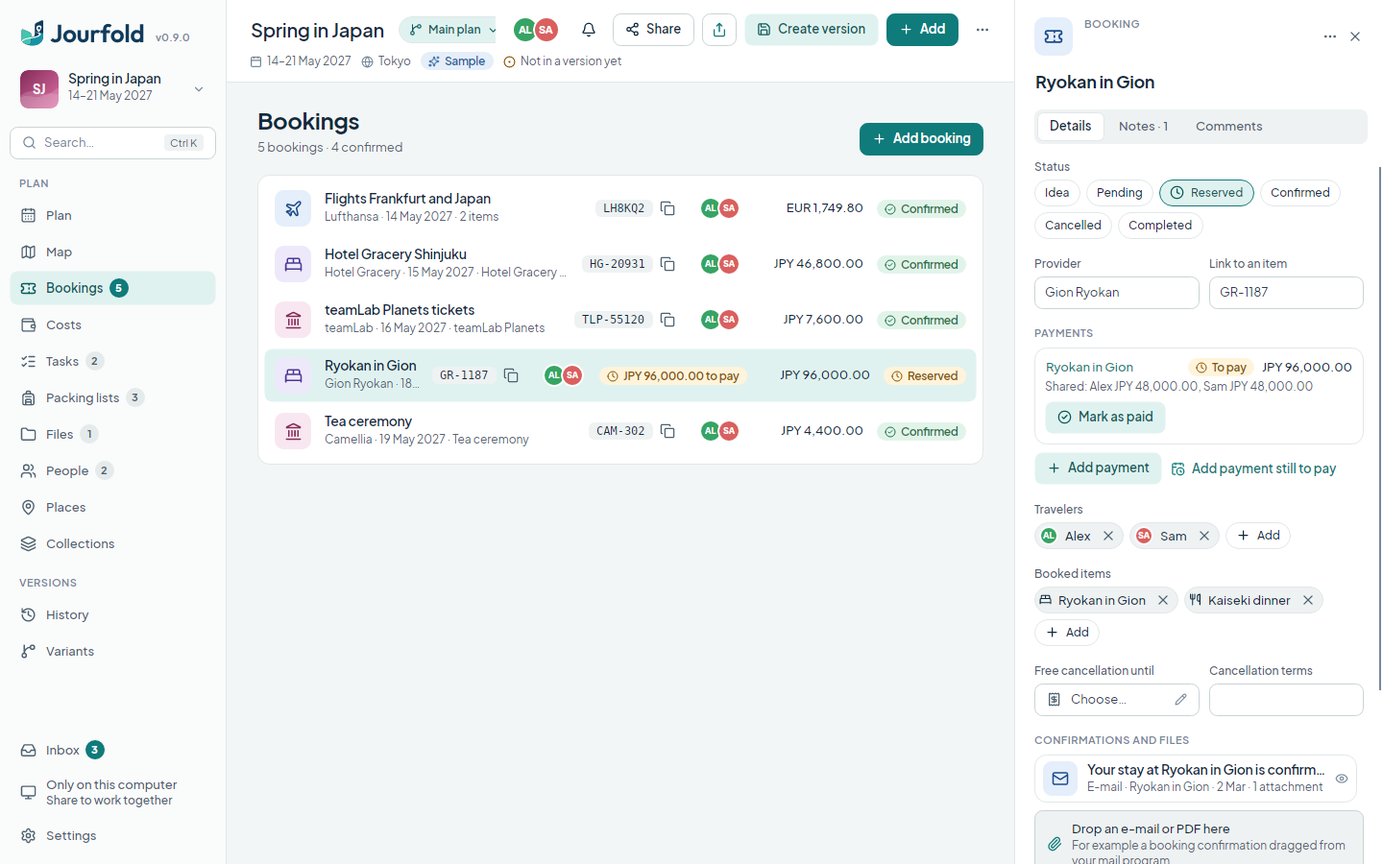
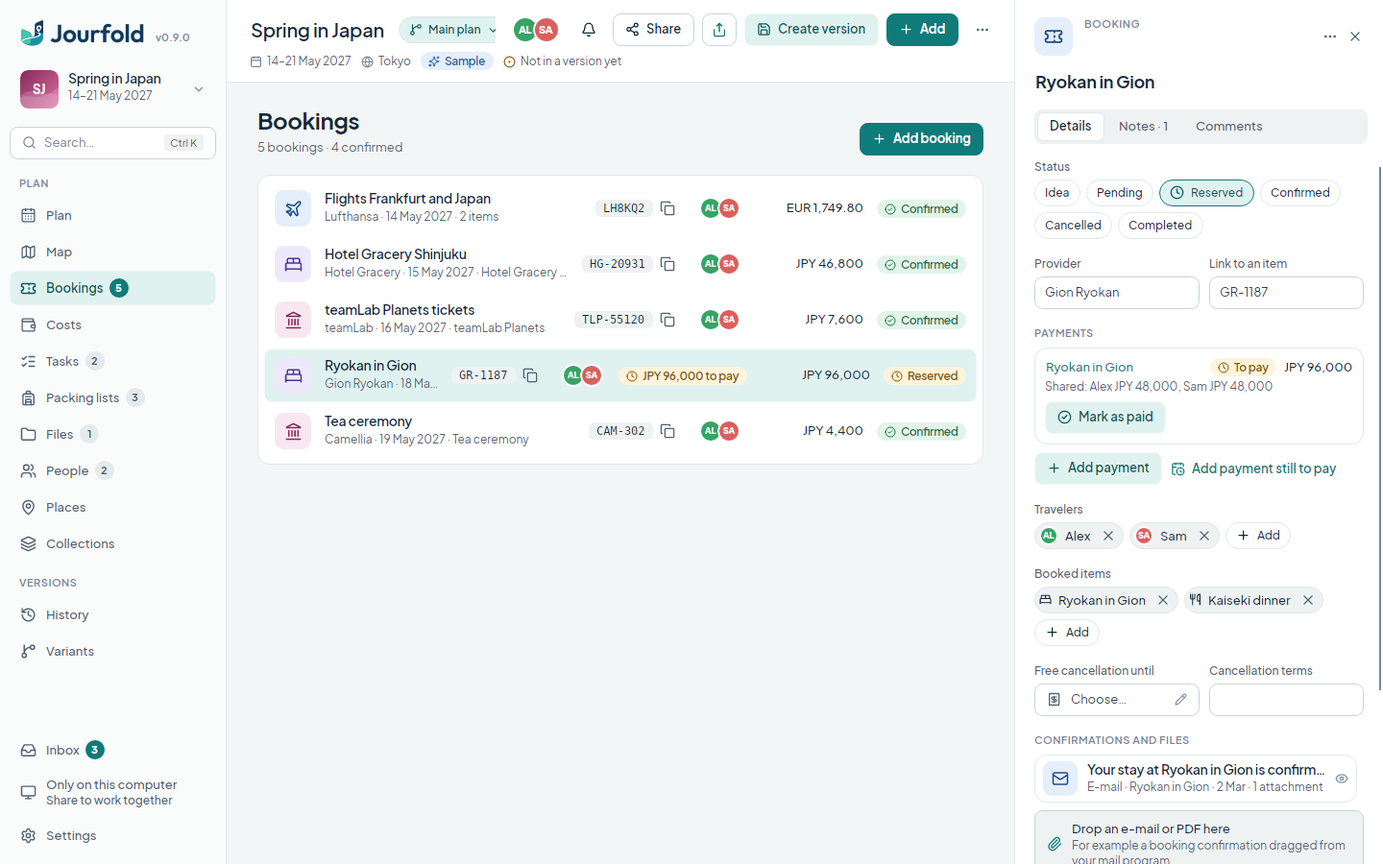
Fix what the cost review found in wording and layout
Yen and other currencies show their own decimals. Paying back each other
is worded apart from paying a bill (Mark all as paid back), still to pay
replaces estimated, German uses Sie throughout, and split problems get
their own text instead of a code. A new budget starts in the trip
currency, a new expense paid by the person at this computer, a cost
export with everyone. What the card charged sits under the amount, on
the computer and the phone. The Costs page offers a postponed upgrade
again and lists payments before the converter. On the phone the Costs
page has Add expense, the add button starts with an expense there, rows
have room, and categories not converted yet get their own heading.

Claude-Session: https://claude.ai/code/session_01Mxec6Wy4fDi6DtXau3FGNo

diff --git a/src/Jourfold.Mobile/Views/MorePages.cs b/src/Jourfold.Mobile/Views/MorePages.cs
@@ -50,6 +50,13 @@ public static class MorePages
         return Ui.Scroll(page);
     }
 
+    /// <summary>Rows of a cost group with room around them, where a row brought no margin of its own.</summary>
+    private static IReadOnlyList<Control> Padded(IReadOnlyList<Control> rows)
+    {
+        foreach (var row in rows) if (row.Margin == default) row.Margin = new Thickness(16, 10);
+        return rows;
+    }
+
     private static Control Group(string title, IReadOnlyList<Control> rows, Control? action = null)
     {
         var list = Ui.V(0);
@@ -524,7 +531,10 @@ public static class MorePages
         var totals = TripSummaries.Costs(trip);
         var expenses = trip.Entities.Values.Where(e => e.Type == "expense").Select(e => (Expense: e, First: FirstItem(trip, e))).ToArray();
         var upgrade = UpgradeBanner(s);
-        if (totals.Count == 0 && !trip.Entities.Values.Any(e => e.Type == "budget")) return Frame(s, str["Costs"], upgrade, Empty("wallet", str["NoCostsTitle"], str["NoCostsBody"]));
+        // Adding an expense starts here, as a booking does on its page.
+        var add = Ui.Button(str["AddExpense"], "plus", "soft").Also(b => { b.HorizontalAlignment = HorizontalAlignment.Left; b.MinHeight = 44; }).Margin(16, 0);
+        ((Button)add).Click += (_, _) => s.ShowQuickAdd("expense");
+        if (totals.Count == 0 && !trip.Entities.Values.Any(e => e.Type == "budget")) return Frame(s, str["Costs"], upgrade, Empty("wallet", str["NoCostsTitle"], str["NoCostsBody"]), add);
         var columns = totals.Count > 1 ? 2 : 1;
         var tiles = new Grid { ColumnDefinitions = new ColumnDefinitions(columns == 2 ? "*,12,*" : "*"), Margin = new Thickness(16, 0) };
         for (var i = 0; i < totals.Count; i++)
@@ -534,7 +544,7 @@ public static class MorePages
         }
         var dated = expenses.Where(x => x.First?.Start is not null).OrderBy(x => x.First!.Value.Start!.Value.ToInstant()).ToArray();
         var undated = expenses.Except(dated).OrderBy(x => x.Expense.Title, StringComparer.CurrentCulture).ToArray();
-        return Frame(s, str["Costs"], upgrade, TripTotal(s), tiles, Balances(s), StillToPay(s), BudgetGroup(s), ByCategory(s),
+        return Frame(s, str["Costs"], upgrade, TripTotal(s), tiles, add, Balances(s), StillToPay(s), BudgetGroup(s), ByCategory(s),
             dated.Length == 0 ? null : Group(str["ByDate"], dated.Select(x => Expense(s, x.Expense, x.First!.Value.Start!.Value.Date)).ToArray()),
             undated.Length == 0 ? null : Group(str["WithoutDay"], undated.Select(x => Expense(s, x.Expense, null)).ToArray()),
             Ui.Columns("Auto,*", Ui.Icon("info", 13, "Text.Subtle").Also(i => i.VerticalAlignment = VerticalAlignment.Top).Margin(0, 2, 6, 0), Ui.Text(str["NoAutoConversion"], "caption")).Margin(20, 0));
@@ -547,7 +557,7 @@ public static class MorePages
         var str = s.Strings;
         var update = Ui.Button(str["UpgradeConfirm"], "refresh-cw", "soft").Also(b => b.HorizontalAlignment = HorizontalAlignment.Left);
         update.Click += (_, _) => s.OfferCostUpgrade();
-        return Ui.Card(Ui.V(8, Ui.Text(str["UpgradeTitle"], "strong"), Ui.Text(str["UpgradeBody"], "caption").Also(t => t.TextWrapping = Avalonia.Media.TextWrapping.Wrap), update), 14).Margin(16, 0);
+        return Ui.Card(Ui.V(8, Ui.Text(str["UpgradeTitle"], "strong"), Ui.Text(str["UpgradeBody"].TrimEnd(':') + ".", "caption").Also(t => t.TextWrapping = Avalonia.Media.TextWrapping.Wrap), update), 14).Margin(16, 0);
     }
 
     /// <summary>
@@ -563,7 +573,7 @@ public static class MorePages
         // Payments for ideas say what they would cost and are listed apart.
         var ideas = expenses.Where(e => Expenses.IsIdea(trip, e)).ToArray();
         var paid = Expenses.Total(expenses, home, s.EstimateRates); var planned = Expenses.Total(expenses.Except(ideas), home, s.EstimateRates, planned: true);
-        // What is in the trip's currency and, apart, what is not converted yet, without a zero in front: "≈ EUR 40.00 + JPY 5,000.00".
+        // What is in the trip's currency and, apart, what is not converted yet, without a zero in front: "≈ EUR 40.00 + JPY 5,000".
         string Sum(ConvertedTotal t) => string.Join(" + ", new[] { t.Total != 0 || t.NotConverted.Count == 0 ? (t.Estimated > 0 ? "≈ " : "") + Formats.Money(t.Total, home) : null }
             .Concat(t.NotConverted.Select(x => Formats.Money(x.Amount, x.Currency))).OfType<string>());
         var body = Ui.V(6, Ui.Text(string.Format(CultureInfo.CurrentCulture, str["InCurrency"], home), "overline"), Ui.Text((paid.Estimated > 0 ? "≈ " : "") + Formats.Money(paid.Total, home), "h2"));
@@ -622,7 +632,7 @@ public static class MorePages
                 + (b.Left >= 0 ? string.Format(CultureInfo.CurrentCulture, str["BudgetLeft"], approx + Formats.Money(b.Left, b.Amount.Currency)) : string.Format(CultureInfo.CurrentCulture, str["BudgetOver"], approx + Formats.Money(-b.Left, b.Amount.Currency)));
             return DetailView.Row(b.Left < 0 ? "triangle-alert" : "piggy-bank", b.Budget.Title + (what.Length > 0 ? " · " + what : ""), state);
         }).ToArray();
-        return Group(str["Budgets"], rows);
+        return Group(str["Budgets"], Padded(rows));
     }
 
     /// <summary>
@@ -649,8 +659,14 @@ public static class MorePages
         }
         var rows = new List<Control> { chips.Margin(16, 8) };
         if (totals.Count == 0) rows.Add(Ui.Text(str["ByCategoryNone"], "caption").Margin(16, 4));
-        rows.AddRange(totals.Select(t => DetailView.Row("tag", Jourfold.UI.CostTexts.Category(str, t.Category), (t.Estimated ? "≈ " : "") + Formats.Money(t.Amount, t.Currency))));
-        return Group(str["ByCategory"], rows);
+        // In the trip's currency first; what could not be converted follows under its own heading, as on the computer.
+        var home = s.TripCurrencyCode;
+        foreach (var group in totals.GroupBy(t => t.Currency, StringComparer.Ordinal).OrderBy(g => g.Key == home ? 0 : 1))
+        {
+            if (group.Key != home) rows.Add(Ui.Text(string.Format(CultureInfo.CurrentCulture, str["NotConvertedIn"], group.Key), "caption").Margin(16, 8, 16, 2));
+            rows.AddRange(group.Select(t => DetailView.Row("tag", Jourfold.UI.CostTexts.Category(str, t.Category), (t.Estimated ? "≈ " : "") + Formats.Money(t.Amount, t.Currency))));
+        }
+        return Group(str["ByCategory"], Padded(rows));
     }
 
     /// <summary>
@@ -734,7 +750,7 @@ public static class MorePages
         var rows = new List<Control>();
         foreach (var p in problems) rows.Add(DetailView.Row("triangle-alert", p.Expense.Title, str["CheckSplit"]));
         var balances = Expenses.Balances(trip, home, s.EstimateRates);
-        if (balances.Count == 0) { rows.Add(DetailView.Row("circle-check", str["AllEven"], null)); return Group(str["WhoOwesWhom"], rows); }
+        if (balances.Count == 0) { rows.Add(DetailView.Row("circle-check", str["AllEven"], null)); return Group(str["WhoOwesWhom"], Padded(rows)); }
         foreach (var b in balances)
             rows.Add(DetailView.Row(b.Net > 0 ? "arrow-left" : "arrow-right", Name(b.Person), string.Format(CultureInfo.CurrentCulture, str[b.Net > 0 ? "BalanceOwed" : "BalanceOwes"], (b.Estimated ? "≈ " : "") + Formats.Money(Math.Abs(b.Net), b.Currency))));
         rows.Add(Ui.Text(str["SettleUpHint"], "caption").Margin(16, 10, 16, 2).Classed("h3"));
@@ -746,7 +762,7 @@ public static class MorePages
         var settle = Ui.Button(str["SettleAll"], "circle-check", "soft").Also(b => { b.MinHeight = 44; b.HorizontalAlignment = HorizontalAlignment.Left; }).Margin(16, 8);
         ((Button)settle).Click += (_, _) => s.ConfirmSettleAll();
         rows.Add(settle);
-        return Group(str["WhoOwesWhom"], rows);
+        return Group(str["WhoOwesWhom"], Padded(rows));
     }
 
     private static Control Expense(MobileSession s, Entity expense, LocalDate? day)
@@ -771,7 +787,7 @@ public static class MorePages
             var category = ExpenseCategories.Of(trip, expense);
             body.Children.Add(DetailView.Row("tag", ExpenseCategories.IsStandard(category) ? str["expcat." + category] : category, str["Category"]));
             if (Expenses.ChargeOf(expense) is { } charge)
-                body.Children.Add(DetailView.Row("wallet", string.Format(CultureInfo.CurrentCulture, str["ChargedShort"], Formats.Money(charge.Value, charge.Currency)), money is null ? null : string.Format(CultureInfo.CurrentCulture, str["ChargedRate"], money.Currency, charge.Rate.ToString("0.####", CultureInfo.CurrentCulture), charge.Currency)));
+                body.Children.Add(DetailView.Row("wallet", Formats.Money(charge.Value, charge.Currency), str["Charged"] + (money is null ? "" : " · " + string.Format(CultureInfo.CurrentCulture, str["ChargedRate"], money.Currency, charge.Rate.ToString("0.####", CultureInfo.CurrentCulture), charge.Currency))));
             // Everyone's part, and a box per debt to mark it as paid back, large enough to tap.
             var split = Expenses.Split(trip, expense);
             if (split.Shares.Count > 0 && money is not null)

diff --git a/src/Jourfold.Desktop/Views/ExpenseViews.cs b/src/Jourfold.Desktop/Views/ExpenseViews.cs
@@ -75,7 +75,7 @@ public static class ExpenseViews
             if (method != SplitMethod.Equal && included)
             {
                 var stored = (expense.Data["split"]?["parts"] as System.Text.Json.Nodes.JsonArray ?? []).FirstOrDefault(p => p?["person"]?.ToString() == person.ToString())?["value"]?.ToString();
-                var shown = ExchangeRates.Amount(stored) is { } v ? v.ToString(method == SplitMethod.Amount ? "N2" : "0.##", System.Globalization.CultureInfo.CurrentCulture) : "";
+                var shown = ExchangeRates.Amount(stored) is { } v ? v.ToString(method == SplitMethod.Amount ? "N" + Expenses.MinorDigits(currency) : "0.##", System.Globalization.CultureInfo.CurrentCulture) : "";
                 var box = new TextBox { Text = shown, Width = 92, HorizontalContentAlignment = HorizontalAlignment.Right, Tag = SplitValueTag + person };
                 AutomationProperties.SetName(box, string.Format(s["SplitValueOf"], name));
                 var original = shown;
@@ -217,7 +217,7 @@ public static class ExpenseViews
         var charge = Expenses.ChargeOf(expense);
         if (money.Currency == home && charge is null) return null;
         var currency = charge?.Currency ?? home;
-        var shown = charge is { } c ? c.Value.ToString("N2", System.Globalization.CultureInfo.CurrentCulture) : "";
+        var shown = charge is { } c ? c.Value.ToString("N" + Expenses.MinorDigits(c.Currency), System.Globalization.CultureInfo.CurrentCulture) : "";
         var box = new TextBox { Text = shown, Width = 130, HorizontalContentAlignment = HorizontalAlignment.Right, PlaceholderText = "0.00", Tag = "charged" };
         AutomationProperties.SetName(box, string.Format(s["ChargedIn"], currency));
         var original = shown;
@@ -252,7 +252,7 @@ public static class ExpenseViews
     /// </summary>
     public static Control? TripTotal(MainWindow w)
     {
-        // What is in the trip's currency and what is not, without a zero in front: "≈ EUR 40.00 + JPY 5,000.00".
+        // What is in the trip's currency and what is not, without a zero in front: "≈ EUR 40.00 + JPY 5,000".
         string Sum(ConvertedTotal t) => string.Join(" + ", new[] { t.Total != 0 ? (t.Estimated != 0 ? "≈ " : "") + Formats.Money(t.Total, t.Currency) : null }.Concat(t.NotConverted.Select(x => Formats.Money(x.Amount, x.Currency))).OfType<string>());
         var m = w.Model; var s = m.Strings; var trip = m.Trip!; var home = m.TripCurrencyCode;
         var expenses = trip.Entities.Values.Where(e => e.Type == "expense" && TripSummaries.Money(e.Data["amount"]) is not null).ToArray();
@@ -527,7 +527,7 @@ public static class ExpenseViews
         var line = Ui.V(4, bar, Ui.H(5, Ui.Icon(over ? "triangle-alert" : "circle-check", 13, over ? "Danger" : "Success"),
             Ui.Text(string.Format(s["BudgetUsed"], Money(b.Used), Formats.Money(b.Amount.Amount, currency)) + " · " + (over ? string.Format(s["BudgetOver"], Money(-b.Left)) : string.Format(s["BudgetLeft"], Money(b.Left))), "caption")));
         if (b.Planned > 0) line.Children.Add(Ui.Text(string.Format(s["BudgetPlanned"], Money(b.Planned)), "caption"));
-        if (b.NotIncluded.Count > 0) line.Children.Add(Notice("info", "Text.Subtle", string.Format(s["BudgetNotIncluded"], string.Join(" + ", b.NotIncluded.Select(x => Formats.Money(x.Amount, x.Currency))))));
+        if (b.NotIncluded.Count > 0) line.Children.Add(Notice("info", "Text.Subtle", string.Format(s["BudgetNotIncluded"], string.Join(" + ", b.NotIncluded.GroupBy(x => x.Currency, StringComparer.Ordinal).Select(g => Formats.Money(g.Sum(x => x.Amount), g.Key))))));
         return line;
     }
 
@@ -565,6 +565,19 @@ public static class ExpenseViews
         var body = Ui.V(12, Ui.Text(s["Budgets"], "h3"), rows);
         if ((whole?.Approximate ?? false) || limited.Any(b => b.Approximate)) body.Children.Add(Notice("info", "Text.Subtle", m.EstimatedNote));
         return Ui.Card(body, 18);
+    }
+
+    /// <summary>
+    /// The offer to bring costs older versions wrote up to date, for when it was postponed: the same as on the phone.
+    /// Null when nothing needs it.
+    /// </summary>
+    public static Control? UpgradeBanner(MainWindow w)
+    {
+        var m = w.Model; var s = m.Strings;
+        if (!m.CostUpgradePending) return null;
+        var update = Ui.Button(s["UpgradeConfirm"], "refresh-cw", "soft").Also(b => b.HorizontalAlignment = HorizontalAlignment.Left);
+        update.Click += (_, _) => _ = m.OfferCostUpgradeAsync(again: true);
+        return Ui.Card(Ui.V(8, Ui.Text(s["UpgradeTitle"], "h3"), Ui.Text(s["UpgradeBody"].TrimEnd(':') + ".", "caption").Also(t => t.TextWrapping = TextWrapping.Wrap), update), 18);
     }
 
     private static Control Notice(string icon, string brush, string text) =>

diff --git a/tests/Jourfold.Tests/ExpenseSplitTests.cs b/tests/Jourfold.Tests/ExpenseSplitTests.cs
@@ -49,6 +49,21 @@ public sealed class ExpenseSplitTests : IDisposable
         return e;
     }
 
+    [Fact]
+    public void MoneyIsShownWithTheCurrencysOwnDecimals()
+    {
+        var before = System.Globalization.CultureInfo.CurrentCulture;
+        System.Globalization.CultureInfo.CurrentCulture = System.Globalization.CultureInfo.GetCultureInfo("en-US");
+        try
+        {
+            // Yen have no smaller unit; an amount that has more digits than its currency keeps them.
+            Assert.Equal("JPY 5,000", Formats.Money(5000m, "JPY"));
+            Assert.Equal("EUR 12.50", Formats.Money(12.5m, "EUR"));
+            Assert.Equal("JPY 12.5", Formats.Money(12.5m, "JPY"));
+        }
+        finally { System.Globalization.CultureInfo.CurrentCulture = before; }
+    }
+
     [AvaloniaFact]
     public async Task SplitsAreEditedAndPaidBackAsUndoableSteps()
     {
@@ -105,7 +120,7 @@ public sealed class ExpenseSplitTests : IDisposable
             return new PayAnswer(request.Person, chosen);
         };
         await m.PayAsync(p.Ben.Id);
-        Assert.Contains("2 items marked as paid", interaction.Toasts);
+        Assert.Contains("2 items marked as paid back", interaction.Toasts);
         var open = Expenses.Open(m.Trip!, p.Ben.Id);
         Assert.All(open, d => Assert.True(d.Expense == museum.Id || d.Expense == taxi.Id && d.From == p.Cleo.Id));
         // One step undoes the whole payment.
@@ -623,9 +638,9 @@ public sealed class ExpenseSplitTests : IDisposable
             var dinner = Probe.All<CheckBox>(sheet).Single(c => (AutomationProperties.GetName(c) ?? "").StartsWith("Dinner", StringComparison.Ordinal));
             dinner.IsChecked = false; Probe.Layout();
             Assert.Contains("Noch nichts ausgewählt.", Texts(sheet));
-            Assert.False(Probe.Button(sheet, "Als bezahlt markieren").IsEnabled);
+            Assert.False(Probe.Button(sheet, "Als zurückgezahlt markieren").IsEnabled);
             Probe.Click(sheet, m.Strings["SelectAll"]); Probe.Layout();
-            Probe.Click(sheet, "Als bezahlt markieren");
+            Probe.Click(sheet, "Als zurückgezahlt markieren");
             await paying;
             Assert.Empty(Expenses.Open(m.Trip!, ben));
             // Long German labels stay inside the window.
@@ -681,7 +696,7 @@ public sealed class ExpenseSplitTests : IDisposable
             IEnumerable<string> All() { Probe.Layout(); return window.GetVisualDescendants().OfType<TextBlock>().Select(t => (t.Text ?? "").Replace(' ', ' ')); }
             // Asked when the trip opens; the answer is yes.
             Assert.Equal("Update the costs of this trip?", session.Menu?.Title);
-            Assert.Contains("Night walk: the price of JPY 5,000.00 becomes a payment still to pay.", session.Menu!.Detail);
+            Assert.Contains("Night walk: the price of JPY 5,000 becomes a payment still to pay.", session.Menu!.Detail);
             await session.Menu.Actions[0].Run(null);
             await Probe.Until(() => session.CostUpgradePlan.IsEmpty);
             Assert.True(Expenses.IsPlanned(Assert.Single(Expenses.ForBooking(session.Trip!, walk.Id))));

diff --git a/src/Jourfold.Desktop/Views/CollectionViews.cs b/src/Jourfold.Desktop/Views/CollectionViews.cs
@@ -85,7 +85,7 @@ public static class CollectionViews
         var budgets = trip.Entities.Values.Where(e => e.Type == "budget").ToArray();
         var export = Ui.Button(s["ExportCosts"], "download", "ghost"); export.Click += (_, _) => m.ShareExportCommand.Execute("costs");
         var actions = expenses.Length > 0 ? new Control[] { export, AddButton(w, s["AddBudget"], "budget", false), AddButton(w, s["AddExpense"], "expense") } : new Control[] { AddButton(w, s["AddBudget"], "budget", false), AddButton(w, s["AddExpense"], "expense") };
-        if (expenses.Length == 0 && budgets.Length == 0) return Page(w, s["Costs"], s["CostsHint"], Ui.V(20, Ui.Card(Ui.EmptyState("wallet", s["NoCostsTitle"], s["NoCostsBody"], actions), 0), ExpenseViews.StillToPay(w), ConverterCard(w)));
+        if (expenses.Length == 0 && budgets.Length == 0) return Page(w, s["Costs"], s["CostsHint"], Ui.V(20, ExpenseViews.UpgradeBanner(w), Ui.Card(Ui.EmptyState("wallet", s["NoCostsTitle"], s["NoCostsBody"], actions), 0), ExpenseViews.StillToPay(w), ConverterCard(w)));
         var tiles = new WrapPanel { ItemSpacing = 14, LineSpacing = 14 };
         foreach (var total in totals)
         {
@@ -121,7 +121,8 @@ public static class CollectionViews
             list.Children.Add(Row(w, e, grid));
         }
         var note = Ui.H(6, Ui.Icon("info", 13, "Text.Subtle"), Ui.Text(s["NoAutoConversion"], "caption"));
-        return Page(w, s["Costs"], s["CostsHint"], Ui.V(20, tiles, ExpenseViews.WhoOwesWhom(w), ExpenseViews.StillToPay(w), ExpenseViews.BudgetsCard(w), ExpenseViews.ByCategory(w), ConverterCard(w), Ui.Card(list, 6), note), actions);
+        // The payments come before the converter, which is a tool rather than part of the trip's costs.
+        return Page(w, s["Costs"], s["CostsHint"], Ui.V(20, ExpenseViews.UpgradeBanner(w), tiles, ExpenseViews.WhoOwesWhom(w), ExpenseViews.StillToPay(w), ExpenseViews.BudgetsCard(w), ExpenseViews.ByCategory(w), Ui.Card(list, 6), note, ConverterCard(w)), actions);
     }
 
     /// <summary>

diff --git a/src/Jourfold.Mobile/Views/QuickAddView.cs b/src/Jourfold.Mobile/Views/QuickAddView.cs
@@ -344,6 +344,13 @@ public sealed class QuickAddView
         if (kind == "expense")
         {
             rest.Children.Add(Field(str["Amount"], Money()));
+            // What the card booked in the trip's currency (or the one of a charge already entered), next to the amount on the bill.
+            if (Currency() != ChargeCurrency())
+            {
+                var label = string.Format(CultureInfo.CurrentCulture, str["ChargedIn"], ChargeCurrency());
+                AutomationProperties.SetName(charged, label);
+                rest.Children.Add(Field(label, Ui.V(4, charged, Ui.Text(str["ChargedHintShort"], "caption").Also(t => t.TextWrapping = Avalonia.Media.TextWrapping.Wrap))));
+            }
             rest.Children.Add(estimated);
             // A payment still to pay can be due on a day; the phone reminds three days before.
             if (estimated.IsChecked == true)
@@ -355,13 +362,6 @@ public sealed class QuickAddView
             rest.Children.Add(Field(str["BelongsTo"], RelatedControls()));
             rest.Children.Add(Field(str["SharedByLabel"], SharingControls()));
             rest.Children.Add(Field(str["Category"], CategoryControls()));
-            // What the card booked in the trip's currency (or the one of a charge already entered), next to the amount on the bill.
-            if (Currency() != ChargeCurrency())
-            {
-                var label = string.Format(CultureInfo.CurrentCulture, str["ChargedIn"], ChargeCurrency());
-                AutomationProperties.SetName(charged, label);
-                rest.Children.Add(Field(label, Ui.V(4, charged, Ui.Text(str["ChargedHintShort"], "caption").Also(t => t.TextWrapping = Avalonia.Media.TextWrapping.Wrap))));
-            }
             if (editing is null && s.Host.TakePhoto is { } take)
             {
                 var photo = Ui.Button(receipt is null ? str["PhotographReceipt"] : str["ReceiptTaken"], receipt is null ? "camera" : "check", "soft").Also(b => b.HorizontalAlignment = HorizontalAlignment.Left);

diff --git a/src/Jourfold.Desktop/MainViewModel.Editing.cs b/src/Jourfold.Desktop/MainViewModel.Editing.cs
@@ -32,11 +32,12 @@ public partial class MainViewModel
         if (kind == "comment") { await AddCommentAsync(Selected, null); return; }
         if (kind == "file") { await AddFilesAsync(null); return; }
         var trip = Workspace.State.Trip;
-        var request = new QuickAddRequest(kind, trip, date ?? StartDate, start, length, ScheduleQueries.TripZone(trip).Id, person, chooseType, Store.Get("currency") ?? DefaultCurrency(trip));
+        // A budget is in the trip's currency; an expense starts in the currency paid in last, paid by the person at this computer.
+        var request = new QuickAddRequest(kind, trip, date ?? StartDate, start, length, ScheduleQueries.TripZone(trip).Id, person ?? (kind == "expense" && !chooseType ? Me?.Id : null), chooseType, kind == "budget" ? TripCurrencyCode : Store.Get("currency") ?? DefaultCurrency(trip));
         var draft = await Interaction.QuickAddAsync(request); if (draft is null) return;
         var (main, edits) = Application.QuickAdd.Build(draft, Workspace.State.Trip);
         await Workspace.ApplyAsync(edits);
-        if (draft.Currency is { } currency) Store.Set("currency", currency);
+        if (draft.Currency is { } currency && draft.Kind != "budget") Store.Set("currency", currency);
         Selected = Workspace.State.Trip.Find(main.Id);
         var target = main.Type switch { "person" => "People", "place" => "Places", "booking" => "Bookings", "task" => "Tasks", "expense" or "budget" => "Costs", "collection" => "Collections", "note" => View, _ => View is "Plan" or "List" or "Map" ? View : "Plan" };
         if (main.Type == "schedule_item" && main.Data["time"] is null) InboxOpen = true;

diff --git a/src/Jourfold.Desktop/MainViewModel.Costs.cs b/src/Jourfold.Desktop/MainViewModel.Costs.cs
@@ -48,6 +48,9 @@ public partial class MainViewModel
     /// <summary>The note beside estimates: with the day of the rates, and that they change from day to day.</summary>
     public string EstimatedNote => string.Format(Strings["EstimatedWithRates"], RatesDay);
 
+    /// <summary>Whether the open trip still has costs in the form older versions wrote, so the Costs page offers the upgrade.</summary>
+    public bool CostUpgradePending => Workspace is { } workspace && !CostUpgrade.Plan(workspace.State.Trip, SystemCurrency).IsEmpty;
+
     /// <summary>Trips whose cost upgrade was postponed in this session; the offer comes again the next time Jourfold starts.</summary>
     private readonly HashSet<string> upgradeLater = [];
 
@@ -57,9 +60,9 @@ public partial class MainViewModel
     /// unsaved, as a version of its own. Nothing changes without the person's OK.
     /// </summary>
     // Not an edit while it asks, so the header does not say "Saving" before the answer.
-    public Task OfferCostUpgradeAsync() => RunAsync(async () =>
+    public Task OfferCostUpgradeAsync(bool again = false) => RunAsync(async () =>
     {
-        if (Workspace is not { } workspace || upgradeLater.Contains(workspace.Repository.Root)) return;
+        if (Workspace is not { } workspace || !again && upgradeLater.Contains(workspace.Repository.Root)) return;
         var plan = CostUpgrade.Plan(workspace.State.Trip, SystemCurrency);
         if (plan.IsEmpty) return;
         var lines = Jourfold.UI.CostTexts.Upgrade(Strings, plan);

diff --git a/src/Jourfold.Mobile/AppShell.cs b/src/Jourfold.Mobile/AppShell.cs
@@ -404,7 +404,7 @@ public sealed class AppShell : UserControl
         var label = Session.Strings["QuickAdd"];
         var plus = new Button { Content = Ui.Icon("plus", 26).Also(i => i.HorizontalAlignment = HorizontalAlignment.Center) }.Classed("plus");
         AutomationProperties.SetName(plus, label); ToolTip.SetTip(plus, label);
-        plus.Click += (_, _) => Session.ShowQuickAdd();
+        plus.Click += (_, _) => Session.ShowQuickAdd(Session.Page switch { "costs" => "expense", "bookings" => "booking", _ => null });
         return plus;
     }
 
@@ -441,7 +441,7 @@ public sealed class AppShell : UserControl
     {
         var s = Session.Strings;
         var add = Ui.Button(s["QuickAdd"], "plus", "primary").Also(b => { b.HorizontalAlignment = HorizontalAlignment.Stretch; ToolTip.SetTip(b, s["QuickAdd"] + " (Ctrl+N)"); });
-        add.Click += (_, _) => Session.ShowQuickAdd();
+        add.Click += (_, _) => Session.ShowQuickAdd(Session.Page switch { "costs" => "expense", "bookings" => "booking", _ => null });
         var trip = Session.Trip!;
         var items = Ui.V(4, Ui.Text(trip.Manifest.Title, "strong").Also(t => t.TextTrimming = TextTrimming.CharacterEllipsis).Margin(8, 16, 8, 2),
             Ui.Text(Formats.DateRange(TravelRepo.Core.TripQueries.EffectiveDates(trip).Start, TravelRepo.Core.TripQueries.EffectiveDates(trip).End), "caption").Margin(8, 0, 8, 14),

diff --git a/src/Jourfold.Desktop/Views/InspectorView.cs b/src/Jourfold.Desktop/Views/InspectorView.cs
@@ -204,6 +204,8 @@ public static class InspectorView
                 body.Children.Add(Field(s["Amount"], Editors.Money(w, e.Id, "amount", s["Amount"], e.Data["amount"])));
                 if (e.Type == "expense")
                 {
+                    // What the card booked belongs right under the amount on the bill.
+                    if (ExpenseViews.Charged(w, e) is { } charged) body.Children.Add(Field(s["Charged"], charged));
                     var planned = e.Data["estimated"] is JsonValue v && v.TryGetValue<bool>(out var est) && est;
                     body.Children.Add(Editors.Toggle(w, e.Id, "estimated", s["StillToPay"], planned));
                     if (planned)
@@ -225,7 +227,6 @@ public static class InspectorView
                     body.Children.Add(Field(s["Related"], Related(w, e)));
                     // A receipt photographed on the phone, or one dropped here.
                     Add(body, s["Files"], Confirmations(w, e));
-                    if (ExpenseViews.Charged(w, e) is { } charged) body.Children.Add(Field(s["Charged"], charged));
                 }
                 else body.Children.Add(Field(s["BudgetScope"], ExpenseViews.BudgetScopeEditor(w, e)));
                 break;

diff --git a/src/Jourfold.Mobile/TravelNotices.cs b/src/Jourfold.Mobile/TravelNotices.cs
@@ -125,7 +125,7 @@ public static class TravelNotices
         // Payments still to pay, three mornings before they are due, for the people who share them.
         foreach (var payment in trip.Entities.Values.Where(e => e.Type == "expense" && Expenses.IsPlanned(e)))
         {
-            if (Expenses.DueOf(payment) is not { } due || (me is not null && !Expenses.Split(trip, payment).People.Contains(me.Id))) continue;
+            if (Expenses.DueOf(payment) is not { } due || Expenses.IsIdea(trip, payment) || (me is not null && !Expenses.Split(trip, payment).People.Contains(me.Id))) continue;
             var amount = TripSummaries.Money(payment.Data["amount"]) is { } money ? Formats.Money(money.Amount, money.Currency) : "";
             notices.Add(new("payment:" + payment.Id + ":" + due, NoticeKind.Deadline, phone.AtLeniently(due.PlusDays(-3).At(new LocalTime(9, 0))).ToInstant(), Format(s["NoticePayment"], payment.Title),
                 Format(s["NoticePaymentText"], amount, due.ToString(s["DayShortFormat"], CultureInfo.GetCultureInfo(s.Language))), payment.Id));

diff --git a/src/Jourfold.UI/Visuals.cs b/src/Jourfold.UI/Visuals.cs
@@ -147,6 +147,10 @@ public static class Formats
         {
             var culture = (CultureInfo)CultureInfo.CurrentCulture.Clone();
             culture.NumberFormat.CurrencySymbol = currency;
+            // The currency's own decimals: none for yen, three for dinars; an amount with more keeps what it has.
+            var digits = TravelRepo.Core.Expenses.MinorDigits(currency);
+            while (digits < 6 && decimal.Round(amount, digits) != amount) digits++;
+            culture.NumberFormat.CurrencyDecimalDigits = digits;
             return amount.ToString("C", culture).Replace(currency, currency + " ").Replace("  ", " ").Trim();
         }
         catch (Exception ex) when (ex is FormatException or ArgumentException) { return amount.ToString("0.00", CultureInfo.CurrentCulture) + " " + currency; }

diff --git a/src/Jourfold.Desktop/MainViewModel.Export.cs b/src/Jourfold.Desktop/MainViewModel.Export.cs
@@ -34,7 +34,8 @@ public partial class MainViewModel
     private Task ShareExport(string action) => action switch
     {
         "packing" => ExportWith(c => c with { Kind = "packing", Format = c.Kind == "packing" ? c.Format : "pdf" }, true),
-        "costs" => ExportWith(c => c with { Kind = "costs", Format = c.Kind == "costs" ? c.Format : "pdf" }, true),
+        // Costs start with everyone's, not with the part of whoever packed last; a choice made for costs before is kept.
+        "costs" => ExportWith(c => c with { Kind = "costs", Format = c.Kind == "costs" ? c.Format : "pdf", People = c.Kind == "costs" ? c.People : [], UnassignedOnly = false }, true),
         _ => ExportWith(c => c with { Kind = "plan", Format = action }, false)
     };
 
